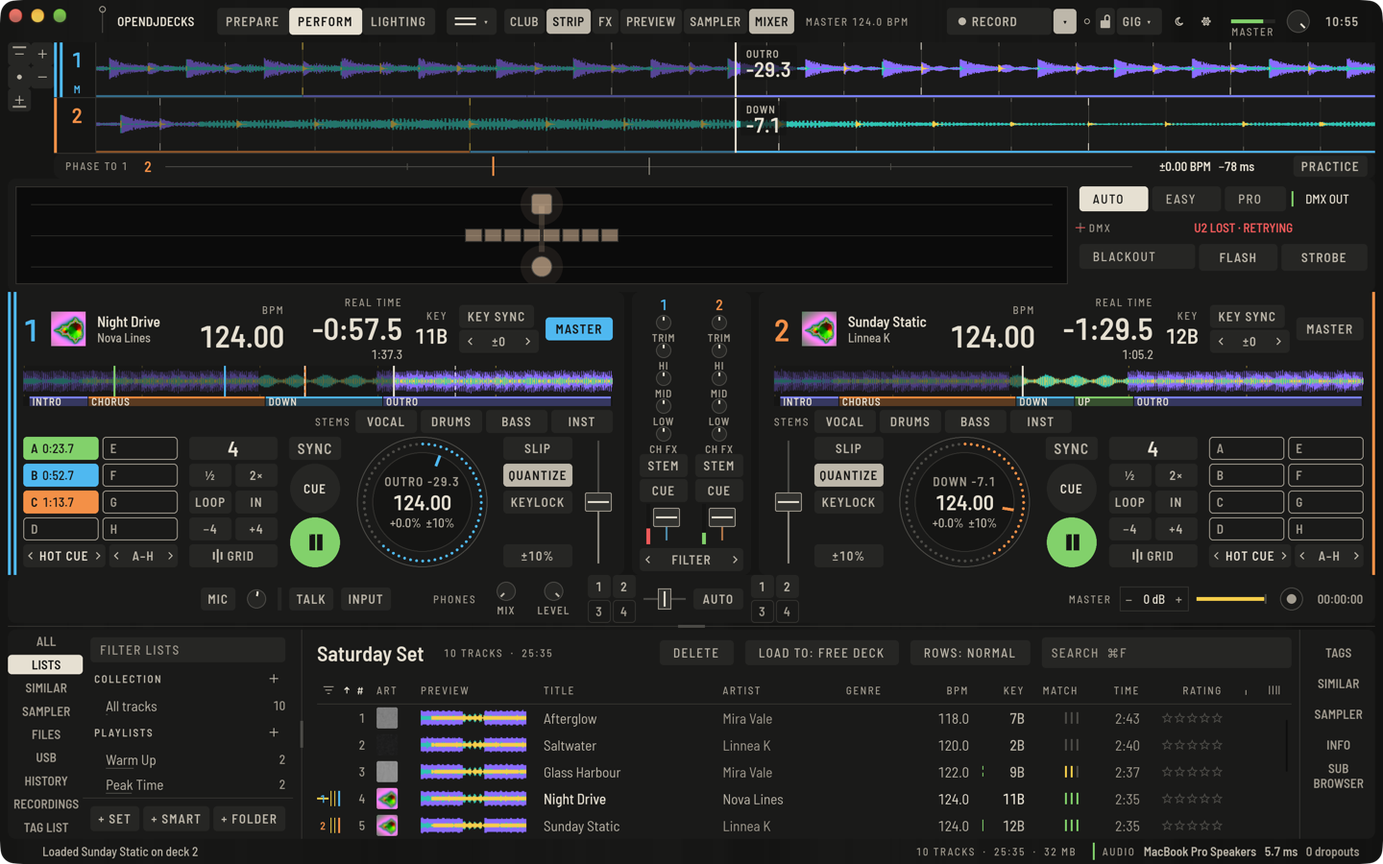
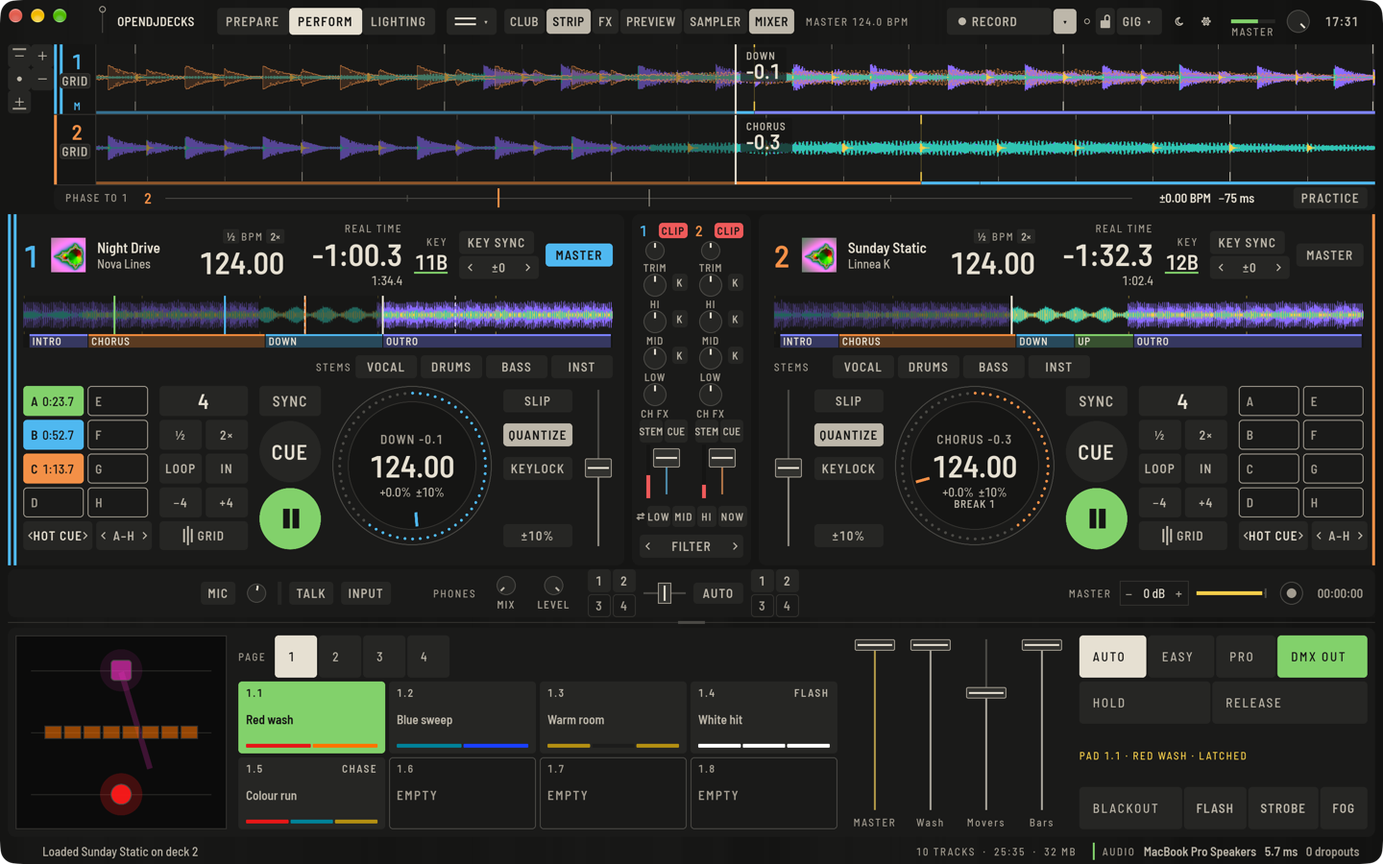
Guides, features and roadmap for own looks, the lighting panel, AUTO steering and connecting
EN and DE light-show guides with the same structure, new pictures,
feature ids in the guide frontmatter and features.toml, the lighting
panel as a view in views.toml, the new mapping actions in
controller-mappings.md, DESIGN.md notes, roadmap [15] [17] [18] [20]
ticked with what was not tried on hardware.

diff --git a/docs/guide/de/light-show.md b/docs/guide/de/light-show.md
@@ -1,11 +1,11 @@
 ---
 title: Die DMX-Lichtshow
-description: Eine Lichtshow, die aus Phrasen, Beat und Energie der Musik folgt, ein einfacher Modus mit Looks, ein Pro-Modus mit Programmen, Effekten und Cue-Stack, eine Patch-Tabelle, der Zustand der Ausgänge mit Failsafe und Sicherheitsgrenzen.
-keywords: [licht, lichter, lighting, dmx, lichtshow, light show, art-net, artnet, sacn, usb dmx, scheinwerfer, fixture, moving head, par, strobe, laser, nebel, blackout, bühne, cue stack, ofl, patch, universum, adresse, überschneidung, identifizieren, failsafe, sicherheit, epilepsie, fotosensitiv, pin]
-features: [lighting-outputs, lighting-fixtures, lighting-patch-table, lighting-failsafe, lighting-safety, lighting-auto, lighting-easy, lighting-pro, lighting-views]
+description: Eine Lichtshow, die aus Phrasen, Beat und Energie der Musik folgt, eigene Looks und Lauflichter auf Pads, ein AUTO, das du lenken kannst, ein einfacher und ein Pro-Modus, ein Lichtpanel in Perform und Club, eine Patch-Tabelle, das Verbinden von Interfaces mit geführter Einrichtung, der Zustand der Ausgänge mit Failsafe und Sicherheitsgrenzen.
+keywords: [pads, look, looks, lauflicht, chase, gruppen-master, palette, halten, freigeben, testmuster, node-suche, artpoll, anschluss, licht, lichter, lighting, dmx, lichtshow, light show, art-net, artnet, sacn, usb dmx, scheinwerfer, fixture, moving head, par, strobe, laser, nebel, blackout, bühne, cue stack, ofl, patch, universum, adresse, überschneidung, identifizieren, failsafe, sicherheit, epilepsie, fotosensitiv, pin]
+features: [lighting-pads, lighting-panel, lighting-auto-steer, lighting-connect, lighting-outputs, lighting-fixtures, lighting-patch-table, lighting-failsafe, lighting-safety, lighting-auto, lighting-easy, lighting-pro, lighting-views]
 ---
 
-OpenDJDecks kann das Licht selbst fahren. Der Tab **LIGHTING** (`⌥⌘3`) hat drei Spalten: links das Setup (**RIG**, **AUSGANG**, **SICHERHEIT**), in der Mitte **BÜHNE** (Vorschau), **PATCH** (Tabelle) und **KANÄLE**, rechts **SHOW** zum Fahren.
+OpenDJDecks kann das Licht selbst fahren. Der Tab **LIGHTING** (`⌥⌘3`) hat drei Spalten: links das Setup (**RIG**, **AUSGANG**, **SICHERHEIT**), in der Mitte **BÜHNE** (Vorschau), **PADS** für deine eigenen Looks, **PATCH** (Tabelle) und **KANÄLE**, rechts **SHOW** zum Fahren.
 
 ![Die Ansicht LIGHTING mit dem gepatchten Rig](../img/lighting.png)
 
@@ -24,6 +24,28 @@ Teilen sich nach einer Änderung zwei Scheinwerfer Kanäle, bleibt die Änderung
 **ID** lässt einen Scheinwerfer 1,5-mal pro Sekunde blinken, damit du ihn an der Traverse findest. Noch einmal drücken beendet es.
 
 ![Die Patch-Tabelle mit einer Überschneidung und einem blinkenden Scheinwerfer](../img/lighting-patch.png)
+
+## Ein Interface verbinden
+
+**GEFÜHRTE EINRICHTUNG** in **AUSGANG** führt dich in vier kurzen Schritten durch eine Verbindung:
+
+1. Wie das Licht verbunden ist: **ART-NET-NODE**, **SACN-EMPFÄNGER** oder **USB-DMX-INTERFACE**.
+2. Welches: Für Art-Net fragt die App das Netzwerk, welche Nodes da sind, und listet sie mit Name, Adresse und Universen, oder du tippst eine Adresse ein; für USB-DMX wählst du den seriellen Anschluss; sACN braucht keine Wahl.
+3. Welches Universum dorthin geht (1 bei einem kleinen Rig; die Patch-Tabelle zeigt das Universum deiner Scheinwerfer).
+4. **SETZEN UND TESTEN** setzt den Ausgang, schaltet DMX AUS an und startet das Testmuster. **JA, ES FOLGT** beendet den Test und schließt die Einrichtung; **NICHTS PASSIERT** zählt der Reihe nach auf, was du prüfen kannst.
+
+![Die geführte Einrichtung mit einem gefundenen Art-Net-Node](../img/lighting-guide.png)
+
+Dieselben Teile gibt es einzeln in **AUSGANG**:
+
+- **NODES SUCHEN** (mit ART-NET gewählt) schickt ein ArtPoll, die "Wer ist da?"-Nachricht des Art-Net-Protokolls, an die Broadcast-Adresse des lokalen Netzwerks und listet jeden Node, der in etwa 1,5 Sekunden antwortet. **NUTZEN** schickt das Universum, das daneben eingetippt ist, an diesen Node. Ein Node mit mehreren Ausgängen bekommt das Universum auf dem Ausgang mit derselben Nummer, sonst auf seinem ersten.
+- Mit **USB-DMX** gewählt listet **ANSCHLÜSSE** die seriellen Geräte, die nach USB-Adaptern aussehen (unter macOS `/dev/cu.usbserial…` und `/dev/cu.usbmodem…`, unter Linux `/dev/ttyUSB…`, `/dev/ttyACM…` und `/dev/serial/by-id`, unter Windows die vorhandenen COM-Anschlüsse). **AKTUALISIEREN** sucht nach dem Einstecken erneut; **NUTZEN** schickt das Universum an diesen Anschluss.
+- **Mehrere Universen**: Gib jedem Universum eine eigene Zeile. An denselben Art-Net-Node geht Universum 1 an seine Port-Adresse 0, Universum 2 an 1 und so weiter; sACN ohne Nummer sendet Universum 1 als sACN-Universum 1, Universum 2 als 2 und so weiter.
+- **TESTMUSTER**: **EINZELN** lässt einen Scheinwerfer nach dem anderen leuchten, je eine Sekunde; **FARBEN** schaltet das ganze Rig durch Rot, Grün, Blau und Weiß; **VOLL** lässt alles leuchten. Es ersetzt die Show bis **AUS**, mit 80 %, und geht wie alles andere durch die Sicherheitsgrenzen: Es kann nicht schneller blitzen als die Strobe-Grenze, die Pegelgrenze einer Gruppe nicht überschreiten und weder Nebel noch Laser öffnen.
+
+![AUSGANG mit einem gefundenen Node, das Testmuster läuft](../img/lighting-connect.png)
+
+Node-Suche, Anschlusswahl und Einrichtung sind mit einem Stellvertreter-Node auf der eigenen Loopback-Adresse des Rechners und vorgegebenen Testgeräten getestet. **Mit einem echten Art-Net-Node, sACN-Empfänger oder USB-DMX-Interface sind sie noch nicht ausprobiert.** Nodes, die nur an Port 6454 antworten, während ein anderes Lichtprogramm auf demselben Rechner diesen Port belegt, erscheinen eventuell nicht; tippe dann ihre Adresse ein.
 
 ## Ausgänge und eine verlorene Verbindung
 
@@ -70,11 +92,50 @@ Verlust und Wiederkehr sind mit einer simulierten Verbindung getestet. Mit einem
 - **EASY** ist ein **LOOK** für das ganze Rig, im Takt, mit Farbfeldern, Master-Dimmer, **BLACKOUT** und **FLASH**, **STROBE** und **NEBEL**, solange gehalten. **TAP** setzt das Tempo, wenn kein Deck läuft.
 - **PRO** setzt pro Gruppe ein **PROGRAMM**, eine **FARBE** und einen Attribut-Effekt (Sinus, Säge, Rechteck, Zufall auf Dimmer, Pan, Tilt; Phasenversatz; im Takt), einen XY-Programmer für Pan und Tilt, und einen **CUE-STACK** mit **GO**, **ZURÜCK** und **SPEICHERN** mit Fades in Beats. **TRACK-CUES** speichert einen Cue an einem Takt des Tracks, den du hörst, und ruft ihn ab, wann immer er läuft.
 
-Am Deck legt der Pad-Modus **LIGHTING** dir die Looks A bis F, Strobe (G) und Flash (H) auf die Pads. Jedes Licht-Bedienelement lässt sich auch auf MIDI legen.
+Am Deck legt der Pad-Modus **LIGHTING** dir deine eigenen Pads der aktuellen Seite auf die Pads, oder die Looks A bis F, Strobe (G) und Flash (H), wo ein Pad leer ist. Jedes Licht-Bedienelement lässt sich auch auf MIDI legen.
+
+## Eigene Looks und Lauflichter
+
+**PADS** in der Mitte hält deine eigenen Looks auf vier Seiten mit je acht Pads (**SEITE 1** bis **4**). Ein Pad zeigt seine Nummer (Seite und Pad, etwa 1.3), seinen Namen, ob es ein Lauflicht oder ein Flash-Pad ist, und eine Linie aus den Farben, die es setzt, eine pro Gruppe. Das Pad, das gerade steuert, ist grün gefüllt.
+
+- Drücke ein Pad, um es zu spielen. Ein **RASTEN**-Pad bleibt an, bis du es erneut drückst oder **FREIGEBEN** drückst; ein **FLASH**-Pad ist an, solange du es hältst.
+- **EDIT** macht die Pads zum Editor: Klicke ein Pad an, um es zu öffnen. Ein leeres Pad bietet **NEUER LOOK** (jede Gruppe weiß und ruhig als Anfang), **NEUES LAUFLICHT** und **AUS PRO** (die Gruppeneinstellungen aus dem PRO-Modus).
+- Ein Look setzt Gruppen: pro Gruppe ein Programm (**MUSIK** folgt der Phrase), eine Farbe (**TRACK** nimmt sie aus der Palette von AUTO oder vom Track) und einen Pegel (**—** überlässt ihn dem Programm). **×** lässt eine Gruppe aus; Gruppen, die ein Look auslässt, behalten, was darunter läuft. Die Farblinie des Pads folgt jeder Änderung sofort.
+- Ein Lauflicht schaltet im Takt durch Looks. **SCHRITTE HINZU**, dann die Looks in ihrer Reihenfolge anklicken; der Stepper legt fest, wie lange jeder Schritt dauert (eine Viertel-Zählzeit bis zwei Takte). Ein Lauflicht folgt dem Deck, das du hörst, oder **TAP** ohne Musik.
+- **GRUPPEN-MASTER** neben den Pads setzen den Pegel jeder Gruppe über allem, auch über dem Master-Dimmer.
+
+Looks, Lauflichter, Seiten und Gruppen-Master werden mit dem Rig in `lighting.json` gespeichert. Welches Pad eingerastet oder gehalten ist, wird nicht gespeichert.
+
+![PADS mit einem Look im Editor, rechts AUTO gehalten](../img/lighting-pads.png)
+
+Am Deck spielt der Pad-Modus **LIGHTING** die acht Pads der aktuellen Seite mit den Pads A bis H; ein Pad der Seite ohne Look behält die eingebauten Looks A bis F, Strobe (G) und Flash (H). In einem Mapping erreichen `lighting.pad`, `lighting.page`, `lighting.page_next`, `lighting.page_prev` und `lighting.group_master` sie von einem Controller, und MIDI-Learn kann sie lernen (wähle Pad, Seite oder Gruppe unter **Pad, Seite oder Gruppe**).
+
+## AUTO lenken
+
+Mit **AUTO** gewählt lenkt die rechte Spalte es:
+
+- **PALETTE** wählt die Farben von AUTO: **TONART** (aus der Tonart des Tracks, wie bisher), **WARM**, **KÜHL**, **ABENDROT**, **MEER**, **WEISS** oder **EIGENE** mit den Farbfeldern, die du ankreuzt. Die Farbe wechselt alle acht Takte, in Phrasen mit hoher Energie jedes zweite Taktpaar zur nächsten Farbe.
+- **PHRASE → LOOK** legt fest, was AUTO für Intro, Strophe, Aufbau, Drop (Chorus), Breakdown und Outro spielt: ein eingebautes Programm oder eines deiner Pads. Die Phrase, die gerade läuft, ist markiert.
+- **HALTEN** behält den Look, den AUTO gerade spielt, über Phrasenwechsel hinweg, bis du es erneut drückst oder **FREIGEBEN** drückst.
+
+**Wer gewinnt.** Von oben:
+
+1. **BLACKOUT**.
+2. Die Tasten **FLASH** und **STROBE**, solange gehalten.
+3. Ein Flash-Pad, solange gehalten (das zuletzt gedrückte).
+4. Das eingerastete Pad.
+5. **HALTEN**.
+6. AUTO (oder EASY oder PRO).
+
+Ein Pad übernimmt nur die Gruppen, die sein Look setzt; die anderen folgen weiter der Ebene darunter. Gruppen-Master und Master-Dimmer skalieren danach das Ergebnis, und die Sicherheitsgrenzen wirken zuletzt auf jedes Bild. **FREIGEBEN** gibt an AUTO zurück: Das eingerastete Pad und HALTEN enden, mit einer Überblendung über eine Zählzeit; ein Flash-Pad endet sofort beim Loslassen. Die Reihenfolge steht unter **WER GEWINNT, OBEN ZUERST**, die steuernde Ebene leuchtet, und **STEUERT** nennt sie, etwa "PAD 1.1 · RED WASH · EINGERASTET".
 
 ## Wo du es siehst
 
-- Der Knopf **LICHTLEISTE** (`⌥⌘K`) zeigt in Perform eine Lichtleiste mit dem Zustand der Ausgänge.
+- Der Knopf **LICHTLEISTE** (`⌥⌘K`, in schmaleren Fenstern **LEISTE**) öffnet das Lichtpanel in Perform und Club. Es nimmt den Platz des Browsers ein, so behalten Decks, Wellenformen und Mixer ihre Größe; **LICHTLEISTE** bringt den Browser zurück. Es enthält die Bühnenvorschau (ab 1360 px Breite), Seiten und Pads, Master- und Gruppenfader, AUTO / EASY / PRO, DMX AUS, HALTEN und FREIGEBEN, wer gerade steuert (oder eine verlorene Verbindung) und BLACKOUT, FLASH, STROBE und NEBEL. Jede Taste, jedes Pad und jeder Fader ist mindestens 44 px groß für Touch, mit dunklen Flächen und heller Schrift für eine dunkle Kabine.
 - **FENSTER** öffnet die Lichtansicht in einem eigenen Fenster, für einen zweiten Bildschirm.
 
-![Die Lichtleiste in Perform mit einer verlorenen Verbindung](../img/lighting-perform.png)
+![Das Lichtpanel in Perform, ein Look eingerastet](../img/lighting-perform.png)
+
+![Das Lichtpanel im Club-Modus](../img/lighting-club.png)
+
+Das Panel ist mit der Maus und in UI-Tests bei 1440 × 900 und 1280 × 800 ausprobiert; auf einem echten Touchscreen noch nicht.

diff --git a/docs/guide/en/light-show.md b/docs/guide/en/light-show.md
@@ -1,11 +1,11 @@
 ---
 title: The DMX light show
-description: A light show that follows the music from phrases, beat and energy, an easy mode with looks, a pro mode with programs, effects and a cue stack, a patch table, output status with a failsafe, and safety limits.
-keywords: [light, lights, lighting, dmx, light show, art-net, artnet, sacn, usb dmx, fixture, fixtures, moving head, par, strobe, laser, fog, smoke, blackout, stage, cue stack, ofl, patch, universe, address, collision, identify, failsafe, safety, epilepsy, photosensitive, pin]
-features: [lighting-outputs, lighting-fixtures, lighting-patch-table, lighting-failsafe, lighting-safety, lighting-auto, lighting-easy, lighting-pro, lighting-views]
+description: A light show that follows the music from phrases, beat and energy, your own looks and chases on pads, AUTO you can steer, an easy and a pro mode, a lighting panel in Perform and Club, a patch table, connecting interfaces with a guided setup, output status with a failsafe, and safety limits.
+keywords: [pads, look, looks, chase, chases, group master, palette, hold, release, test pattern, node discovery, artpoll, port, light, lights, lighting, dmx, light show, art-net, artnet, sacn, usb dmx, fixture, fixtures, moving head, par, strobe, laser, fog, smoke, blackout, stage, cue stack, ofl, patch, universe, address, collision, identify, failsafe, safety, epilepsy, photosensitive, pin]
+features: [lighting-pads, lighting-panel, lighting-auto-steer, lighting-connect, lighting-outputs, lighting-fixtures, lighting-patch-table, lighting-failsafe, lighting-safety, lighting-auto, lighting-easy, lighting-pro, lighting-views]
 ---
 
-OpenDJDecks can run the lights itself. The **LIGHTING** tab (`⌥⌘3`) has three columns: setup on the left (**RIG**, **OUTPUT**, **SAFETY**), the middle (**STAGE** preview, **PATCH** table, **CHANNELS**), and **SHOW** on the right to run it.
+OpenDJDecks can run the lights itself. The **LIGHTING** tab (`⌥⌘3`) has three columns: setup on the left (**RIG**, **OUTPUT**, **SAFETY**), the middle (**STAGE** preview, **PADS** for your own looks, **PATCH** table, **CHANNELS**), and **SHOW** on the right to run it.
 
 ![The LIGHTING view with the patched rig](../img/lighting.png)
 
@@ -24,6 +24,28 @@ An edit that makes two fixtures share channels is kept, not refused, so you can 
 **ID** makes one fixture blink at 1.5 per second so you can find it on the truss. Press it again to stop.
 
 ![The patch table with a collision and one fixture identifying](../img/lighting-patch.png)
+
+## Connect an interface
+
+**GUIDED SETUP** in **OUTPUT** takes you through a connection in four short steps:
+
+1. How the lights are connected: **ART-NET NODE**, **SACN RECEIVER** or **USB-DMX INTERFACE**.
+2. Which one: for Art-Net the app asks the network which nodes are there and lists them by name, address and universes, or you type an address; for USB-DMX you choose the serial port; sACN needs no choice.
+3. Which universe goes there (1 for a small rig; the patch table shows your fixtures' universe).
+4. **SET AND TEST** sets the output, turns DMX OUT on and starts the test pattern. **YES, THEY FOLLOW** stops the test and closes the guide; **NOTHING HAPPENS** lists what to check, in order.
+
+![The guided setup with an Art-Net node found](../img/lighting-guide.png)
+
+The same parts work on their own in **OUTPUT**:
+
+- **FIND NODES** (with ART-NET chosen) sends an ArtPoll, the "who is there?" message of the Art-Net protocol, to the broadcast address of the local network and lists every node that answers within about 1.5 seconds. **USE** sends the universe typed beside it to that node. A node with several output ports gets the universe on the port with the same number, otherwise its first port.
+- With **USB-DMX** chosen, **PORTS** lists the serial devices that look like USB adapters (on macOS `/dev/cu.usbserial…` and `/dev/cu.usbmodem…`, on Linux `/dev/ttyUSB…`, `/dev/ttyACM…` and `/dev/serial/by-id`, on Windows the COM ports that exist). **REFRESH** looks again after plugging in; **USE** sends the universe to that port.
+- **Several universes**: give each universe its own line. Sent to the same Art-Net node, universe 1 goes to its Port-Address 0, universe 2 to 1, and so on; sACN without a number sends universe 1 as sACN universe 1, universe 2 as 2, and so on.
+- **TEST PATTERN**: **EACH** lights one fixture after another, a second each; **COLOURS** steps the whole rig through red, green, blue and white; **FULL** lights everything. It replaces the show until **OFF**, at 80 %, and passes through the safety limits like everything else: it cannot flash faster than the strobe cap, exceed a group's level cap or open fog or lasers.
+
+![OUTPUT with a node found, the test pattern running](../img/lighting-connect.png)
+
+Discovery, the port picker and the guide are tested with a stand-in node on the computer's own loopback address and listed test devices. **No real Art-Net node, sACN receiver or USB-DMX interface has been tried with them yet.** Nodes that only answer on port 6454 while another lighting program holds that port on the same computer may not show up; type their address instead.
 
 ## Outputs and a lost link
 
@@ -70,11 +92,50 @@ Loss and recovery are tested with a simulated link. They have not been tried yet
 - **EASY** is one **LOOK** for the whole rig, locked to the beat, with colour swatches, a master dimmer, **BLACKOUT**, and **FLASH**, **STROBE** and **FOG** while held. **TAP** sets the tempo when no deck plays.
 - **PRO** sets a **PROGRAM**, a **COLOUR** and an attribute effect (sine, saw, square, random on dimmer, pan, tilt; phase spread; beat-synced) per group, an XY programmer for pan and tilt, and a **CUE STACK** with **GO**, **BACK** and **STORE** with fades counted in beats. **TRACK CUES** stores a cue at a bar of the track you hear, recalled whenever that track plays.
 
-On the decks the **LIGHTING** pad mode gives you looks A to F, strobe (G) and flash (H) from the pads. Every lighting control can also be mapped to MIDI.
+On the decks the **LIGHTING** pad mode gives you your own pads of the current page, or looks A to F, strobe (G) and flash (H) where a pad is empty. Every lighting control can also be mapped to MIDI.
+
+## Your own looks and chases
+
+**PADS** in the middle holds your own looks on four pages of eight pads (**PAGE 1** to **4**). A pad shows its number (page and pad, such as 1.3), its name, whether it is a chase or a flash pad, and a line of the colours it sets, one per group. The pad in control is filled green.
+
+- Press a pad to play it. A **LATCH** pad stays on until you press it again or press **RELEASE**; a **FLASH** pad is on while you hold it.
+- **EDIT** turns the pads into an editor: click a pad to open it. An empty pad offers **NEW LOOK** (every group white and steady to start from), **NEW CHASE** and **FROM PRO** (the group settings you made in PRO mode).
+- A look sets groups: for each group a program (**MUSIC** follows the phrase), a colour (**TRACK** takes it from AUTO's palette or the track) and a level (**—** leaves it to the program). **×** leaves a group out; groups a look leaves out keep what runs underneath. The pad's colour line follows every change at once.
+- A chase steps through looks on the beat. **ADD STEPS**, then click the looks in order; the stepper sets how long each step lasts (a quarter beat to two bars). A chase follows the deck you hear, or **TAP** without music.
+- **GROUP MASTERS** beside the pads set the level of each group on top of everything, the master dimmer included.
+
+Looks, chases, pages and group masters are saved with the rig in `lighting.json`. Which pad is latched or held is not saved.
+
+![PADS with a look open in the editor, AUTO held on the right](../img/lighting-pads.png)
+
+On the decks, the **LIGHTING** pad mode plays the eight pads of the current page with pads A to H; a pad of the page without a look keeps the built-in looks A to F, strobe (G) and flash (H). In a mapping, `lighting.pad`, `lighting.page`, `lighting.page_next`, `lighting.page_prev` and `lighting.group_master` reach them from a controller, and MIDI learn can learn them (choose the pad, page or group under **Pad, page or group**).
+
+## Steer AUTO
+
+With **AUTO** chosen, the right column steers it:
+
+- **PALETTE** chooses AUTO's colours: **TRACK KEY** (from the key of the track, as before), **WARM**, **COOL**, **SUNSET**, **OCEAN**, **WHITE**, or **OWN** with the swatches you tick. The colour moves on every eight bars, and to the next colour every other bar pair in high-energy phrases.
+- **PHRASE → LOOK** says what AUTO plays for intro, verse, build-up, drop (chorus), breakdown and outro: a built-in program or one of your pads. The phrase heard now is marked.
+- **HOLD** keeps the look AUTO plays now through phrase changes, until you press it again or **RELEASE**.
+
+**Who wins.** From the top:
+
+1. **BLACKOUT**.
+2. The **FLASH** and **STROBE** keys while held.
+3. A flash pad while held (the last one pressed).
+4. The latched pad.
+5. **HOLD**.
+6. AUTO (or EASY or PRO).
+
+A pad takes only the groups its look sets; the others keep following the layer below. Group masters and the master dimmer then scale the result, and the safety limits apply to every frame last. **RELEASE** hands back to AUTO: the latched pad and HOLD end, with a fade over one beat; a flash pad ends at once when let go. The order is shown under **WHO WINS, TOP FIRST** with the layer in control lit, and **IN CONTROL** names it, such as "PAD 1.1 · RED WASH · LATCHED".
 
 ## Where to see it
 
-- The **LIGHT STRIP** button (`⌥⌘K`) in Perform shows a lighting strip with the output state.
+- The **LIGHT STRIP** button (`⌥⌘K`, **STRIP** in narrower windows) opens the lighting panel in Perform and Club. It takes the browser's place, so the decks, waveforms and mixer keep their size; **LIGHT STRIP** again brings the browser back. It holds the stage preview (from 1360 px wide), the pages and pads, the master and group faders, AUTO / EASY / PRO, DMX OUT, HOLD and RELEASE, who is in control (or a lost link), and BLACKOUT, FLASH, STROBE and FOG. Every key, pad and fader is at least 44 px for touch, with dark surfaces and light ink for a dark booth.
 - **WINDOW** opens the lighting view in its own window, for a second screen.
 
-![The lighting strip in Perform with a lost link](../img/lighting-perform.png)
+![The lighting panel in Perform, one look latched](../img/lighting-perform.png)
+
+![The lighting panel in Club mode](../img/lighting-club.png)
+
+The panel has been tried with a mouse and in UI tests at 1440 × 900 and 1280 × 800; it has not been tried on a real touch screen yet.

diff --git a/docs/ROADMAP.md b/docs/ROADMAP.md
@@ -82,10 +82,10 @@ These need the real devices. They do not hold up any release: until one is confi
 
 - [x] **[6] Simple, Standard and Full layouts,** with saved layouts. Whole groups can be hidden, and a Simple deck has about 25 controls. Done: the top bar's view menu, **View › Deck Layout** and the first-start guide (from the third step) choose the layout. Simple has 23 large controls on a deck (pads A–H as hot cues, loop and beat jump, SYNC / CUE / PLAY, tempo fader, stems, MASTER) and leaves out the setup keys, the platter, the phase strip and the effects; Standard is the deck as before (compared at 1440 × 900); Full shows every group with the Tempo FX panel open. PADS, LOOPS, STEMS, FX, MIXER, PHASE and SETUP KEYS hide as whole groups, which are then not built at all (a UI test counts the Simple deck's controls and checks that hidden ones cannot be found). Saved layouts are named, switched and deleted in the same menu and kept in the settings. The kiosk and Club mode keep their own decks; Simple and Full have not been tried on a touch screen.
 - [x] **[13] Confirmed controller list.** A published matrix with status, more mappings for entry-level and battle-style controllers, and a guided setup for unlisted ones. Done as a controller list in the controllers guide, generated from the mapping files: each model is verified only when every control is confirmed on a unit, and today every row says not confirmed. The guided setup (Preferences › Controller or View › Controller Setup) asks for each core control in turn (play, cue, sync, jog, tempo, load, pads, channel faders, trim and EQ, headphone cue, crossfader, browse, levels), points at the matching control on screen, learns it with MIDI learn and saves a mapping file to share, every entry marked `verify = true`. It starts from generic templates by class (two decks entry level, two decks battle style with the CUT crossfader curve, four decks) in `mappings/templates/`. No new model mapping was derived from manuals, MIDI charts, vendor software or other projects' files: further model mappings, for entry-level and battle-style controllers too, come from owners' own captures through the guided setup, and none of those is confirmed yet. Tested with simulated MIDI only; the setup has not been run with a real controller.
-- [ ] **[15] Own looks and chases** in a pad grid with live colour preview, flash or latch, pages and group masters, mapped to pads and MIDI.
-- [ ] **[17] Full lighting controls in Perform and Club,** legible in the dark and sized for touch.
-- [ ] **[18] AUTO you can steer.** Palettes, an editable phrase-to-look table, hold and a clear order of AUTO, overrides and release.
-- [ ] **[20] Connecting interfaces.** Several universes, port picker, Art-Net node discovery, test pattern and a short guided setup.
+- [x] **[15] Own looks and chases** in a pad grid with live colour preview, flash or latch, pages and group masters, mapped to pads and MIDI. Done as PADS in the LIGHTING view: 4 pages of 8 pads; a look sets program, colour and level per group (the groups it leaves out keep what runs underneath), a chase steps through looks on the beat (a quarter beat to two bars); latch or flash per pad; each pad shows the colours of its look and follows every edit; group masters beside the pads. Looks, chases and group masters are saved with the rig. The deck pads in LIGHTING mode play the current page; the mapping actions `lighting.pad`, `lighting.page(_next/_prev)` and `lighting.group_master` reach them, and MIDI learn fills in the pad, page or group. Tests show a chase cannot exceed the strobe cap. Tested with simulated MIDI only, not from a hardware controller, and no shipped mapping uses the new actions yet.
+- [x] **[17] Full lighting controls in Perform and Club,** legible in the dark and sized for touch. Done: STRIP opens a lighting panel in the browser's place in Perform and Club (stage preview from 1360 px, pages and pads, master and group faders, AUTO / EASY / PRO, DMX OUT, HOLD, RELEASE, who is in control, BLACKOUT / FLASH / STROBE / FOG); every key, pad and fader is 44 px or more. A UI test checks that every deck, mixer and waveform element keeps its place and size at 1440 × 900 and 1280 × 800 with the panel open, in Perform and in Club. The browser is hidden while the panel is open. Not tried on a real touch screen yet; the mixer's CH FX caption at 1280 × 800 is clipped as it was before this step.
+- [x] **[18] AUTO you can steer.** Palettes, an editable phrase-to-look table, hold and a clear order of AUTO, overrides and release. Done: palettes (track key, warm, cool, sunset, ocean, white, own swatches), a phrase-to-look table for intro, verse, build-up, drop, breakdown and outro (a program or one of your pads), HOLD, and RELEASE that hands back to AUTO over one beat. Who wins, top first: blackout, the FLASH and STROBE keys, a flash pad while held, the latched pad, HOLD, AUTO; a pad takes only the groups its look sets. The order is written in the guide and shown in the view with the layer in control lit, and IN CONTROL names it in the view and the panel. Not yet judged at a gig with real lights.
+- [x] **[20] Connecting interfaces.** Several universes, port picker, Art-Net node discovery, test pattern and a short guided setup. Done in OUTPUT: each universe gets its own Art-Net Port-Address or sACN universe unless one is given; PORTS lists USB serial adapters with REFRESH; FIND NODES sends an ArtPoll to the broadcast address and lists the nodes that answer; TEST PATTERN (each, colours, full) replaces the show and passes the safety limits (tests show it cannot exceed the strobe cap); GUIDED SETUP takes four steps and ends with the test. Discovery is tested with a fake node on the loopback address; no real Art-Net node, sACN receiver or USB-DMX interface has been tried with these parts yet.
 
 ## 0.9.0: the rest of the craft
 

diff --git a/docs/feature-matrix.md b/docs/feature-matrix.md
@@ -4,7 +4,7 @@
 
 Snapshot: 2026-11-06, from a read of the source tree.
 
-**Summary:** 264 features; 258 in scope: 258 DONE (100 %), 0 PARTIAL, 0 ENGINE-ONLY, 0 MISSING; 1 deferred to a later milestone; 5 out of scope (SPEC §1).
+**Summary:** 268 features; 262 in scope: 262 DONE (100 %), 0 PARTIAL, 0 ENGINE-ONLY, 0 MISSING; 1 deferred to a later milestone; 5 out of scope (SPEC §1).
 
 The list covers the professional feature set a DJ expects when preparing music and performing
 with a compatible controller (SPEC §1, §5.5, §10, §11, §12). Behaviour,
@@ -356,6 +356,10 @@ Priority (gaps only): **P1** = an experienced DJ hits it in the first session an
 | Easy manual mode: scene pads, dimmer, strobe, blackout, tap/sync, controller pad mode | DONE | EASY: look pads, colour swatches, master dimmer, BLACKOUT, FLASH / STROBE / FOG hold, TAP tempo when no deck plays; LIGHTING pad mode on the decks (and the controller pads): A–F looks, G strobe, H flash; (SPEC §10.5) | 4 | P2 |
 | Pro mode: programmer, effects engine, cue stacks, per-track lighting cues, MIDI mapping | DONE | PRO: program / colour / attribute effect (sine, saw, square, random on dimmer, pan, tilt; phase spread; beat-synced) and an XY pan / tilt programmer per group; cue stack with GO / BACK / STORE and beat fades; track cue timeline (cues stored at bars of the track you hear, recalled whenever it plays); every lighting control MIDI-mappable (`lighting.*` mapping actions); (SPEC §10.5) | 6 | P2 |
 | LIGHTING tab, split view in Perform, detachable window, 2D visualiser | DONE | LIGHTING tab (topbar, View menu, Alt+3) with RIG \| STAGE (live 2D visualiser) \| SHOW, a lighting strip inside Perform (LIGHT, Alt+K) and a detachable LIGHTING window for a second screen (WINDOW); (SPEC §10.5) | 4 | P2 |
+| Own looks and chases on pads: pages, latch or flash, live colour preview, group masters, mapped to pads and MIDI | DONE | Roadmap [15]. PADS in the LIGHTING view: 4 pages of 8 pads; a look sets program, colour and level per group (groups it leaves out keep what runs underneath), a chase steps through looks on the beat (1/4 beat to 2 bars); latch or flash per pad; the pad shows the look's colours and follows every edit; group masters. Saved with the rig (lighting.json). Deck pads in LIGHTING mode play the current page; mapping actions lighting.pad, lighting.page(_next/_prev), lighting.group_master; MIDI learn fills the pad, page or group number. Tested with simulated MIDI only, not from a hardware controller; (SPEC §10.5) | 10 | P2 |
+| Full lighting controls in Perform and Club, legible in the dark and sized for touch | DONE | Roadmap [17]. STRIP (LIGHT STRIP, Alt+Cmd+K) opens a lighting panel in the browser's place in Perform and Club: stage preview (from 1360 px), pages and pads, master and group faders, AUTO / EASY / PRO, DMX OUT, HOLD, RELEASE, who is in control or a lost link, BLACKOUT / FLASH / STROBE / FOG. The decks, mixer and waveforms keep every element's place and size at 1440 x 900 and 1280 x 800 (UI test); every key, pad and fader is 44 px or more. Not tried on a real touch screen; (SPEC §10.5) | 2 | P2 |
+| AUTO you can steer: palettes, editable phrase-to-look table, hold, and a visible order of AUTO, overrides and release | DONE | Roadmap [18]. PALETTE (track key, warm, cool, sunset, ocean, white, own swatches); PHRASE -> LOOK for intro, verse, build-up, drop, breakdown, outro (a program or a pad); HOLD keeps AUTO's look through phrase changes; who wins, top first: blackout, FLASH / STROBE keys, a flash pad while held, the latched pad, HOLD, AUTO. A pad takes only the groups its look sets; RELEASE hands back with a one-beat fade. The order is shown with the layer in control lit, and IN CONTROL names it; (SPEC §10.5) | 5 | P2 |
+| Connecting interfaces: several universes, USB-DMX port picker, Art-Net node discovery, test pattern, guided setup | DONE | Roadmap [20]. OUTPUT: each universe its own Art-Net Port-Address or sACN universe by default; PORTS lists USB serial adapters (REFRESH); FIND NODES sends an ArtPoll to the broadcast address and lists the ArtPollReply answers; TEST PATTERN each / colours / full, through the safety limits; GUIDED SETUP in four steps ending with the test. Tested with a fake node on the loopback address (documentation-range IP) and listed test ports; no real Art-Net node, sACN receiver or USB-DMX interface has been tried; (SPEC §10.5) | 5 | P2 |
 
 ## 14. Video, DVS, streaming, cloud
 
@@ -373,13 +377,13 @@ Priority (gaps only): **P1** = an experienced DJ hits it in the first session an
 
 | Status | Rows |
 |---|---|
-| DONE | 258 |
+| DONE | 262 |
 | PARTIAL | 0 |
 | ENGINE-ONLY | 0 |
 | MISSING | 0 |
 | deferred (in scope, later milestone) | 1 |
 | OUT-OF-SCOPE | 5 |
-| **Total** | **264** |
+| **Total** | **268** |
 
 ## P1 gaps and implementation notes
 

diff --git a/DESIGN.md b/DESIGN.md
@@ -339,6 +339,11 @@ Once the decks come in, the band also offers the deck layout (SIMPLE / STANDARD 
 ### Controller Setup
 A band in the first-start band's place (64px): CONTROLLER SETUP in caps with "Control n of m" over a dashed sodium progress line, the request in Body at weight 600 ("Move the tempo fader of deck 1 up and down") with what arrived beneath it in Control rank (sodium when the control is already used), and BACK / AGAIN / SKIP / CLOSE as compact plates. The matching control on screen gets the armed sodium outline of the guide. Never covers a control.
 
+### Lighting Pads and Panel
+- **Pads** (PADS in the LIGHTING view, the lighting panel): eight to a page in two rows of four, 4px apart. A pad is an ash plate with its number in Label caps top left (page.pad, such as 1.3), CHASE or FLASH in Label caps top right, the name in Control rank, and a 4px line of the look's light colours along the bottom (the light's own colour is content, like the stage preview, not a UI hue). An empty pad is a hollow strong-rule outline with EMPTY in bone 3. The pad in control is filled in the live tone; the pad open in the editor carries a 3px sodium selection tick at its left edge.
+- **Order of who wins**: Label caps chained with ›, bone 3, the layer in control lit (sodium; fault red for blackout; bone for AUTO).
+- **Lighting panel** (STRIP in Perform and Club): in the browser's place, never over or between the decks. Stage preview (from 1360px), page tabs and pads, faders (44px wide) for master and groups, then the keys: mode, DMX OUT, HOLD / RELEASE, the IN CONTROL line (or the lost link) and BLACKOUT / FLASH / STROBE / FOG. Every key is the 44px tall plate; pads at least 44px.
+
 ### Set Safety
 Nothing here is a dialog: nothing may interrupt a set.
 - **Bands under the top bar** (ground-band, panel radius, the first-start band's place): device lost (struck deep-red line, Heading in fault, SWITCH OUTPUT as the green lead), restore after a crash (doubled sodium line, it needs you; RESTORE DECKS green, START EMPTY plain), gig check (one result per check: solid green ready, dashed sodium look at it, struck fix it). The device-lost band is drawn over the waveform zone instead of pushing the layout down, so the decks do not move mid-set (no sound plays, so nothing under it is needed); the others take their place in the layout in the order restore, gig check, first start.

diff --git a/docs/controller-mappings.md b/docs/controller-mappings.md
@@ -222,6 +222,12 @@ release.
 | `lighting.master` | absolute | | master dimmer |
 | `lighting.cue_go`, `lighting.cue_back` | press | | Pro cue stack |
 | `lighting.mode` | press | `mode` (`auto`, `easy`, `pro`) | |
+| `lighting.pad` | hold | `pad` (1–8, on the current page) | `Pad { pad, pressed }`: plays an own look or chase; a latch pad toggles on press, a flash pad is on while held |
+| `lighting.page` | press | `page` (1–4) | `Page`: the page of pads the pad actions and the deck pads play |
+| `lighting.page_next`, `lighting.page_prev` | press | | next / previous page, round |
+| `lighting.group_master` | absolute | `group` (1 = the first group in the patch) | `GroupMaster { group, level }` |
+| `lighting.release` | press | | hands the show back to AUTO: the latched pad and HOLD end |
+| `lighting.hold` | press | | AUTO keeps its current look (toggle) |
 | `ignore` | any | | `ControlAction::Ignored` (known control without a function) |
 
 In the application (`crates/od-ui/src/controller.rs`) every action above
@@ -335,7 +341,10 @@ inputs that no mapping matches too (`ControllerManager::set_open_unmapped`).
    actions (soft takeover) and `[unverified]` flags.
 2. Unmapped controls show `(unmapped)`. Use MIDI learn to get a starting
    point: `--learn deck.play_pause` prints a ready `[[input]]` entry after
-   five seconds of input (`LearnSession` in the API).
+   five seconds of input (`LearnSession` in the API). In the app (Preferences ›
+   Controller › MIDI learn), **Pad, page or group** fills in the number of
+   `lighting.pad`, `lighting.page` and `lighting.group_master` (and the look
+   of `lighting.look`, counted from 1 there).
 3. Check outputs with `--leds` (cycles Play/Cue/Sync LEDs and VU meters).
 4. Once an entry is confirmed on a real unit, remove `verify = true`, add
    `confirmed = true` and say in the commit which unit and firmware it was.
